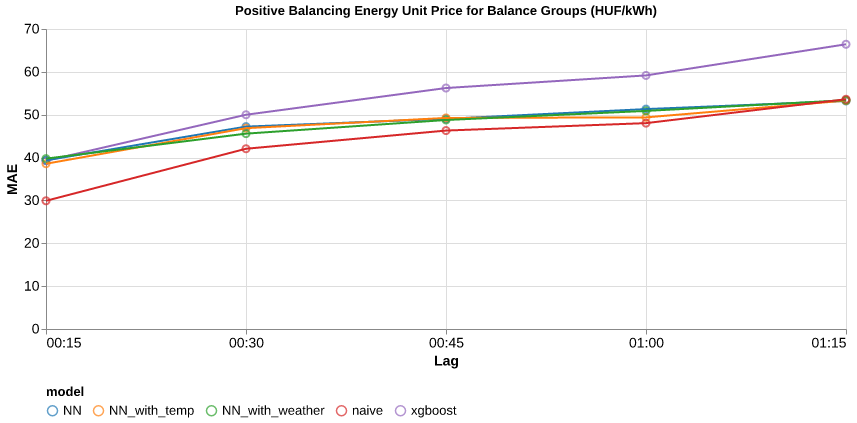
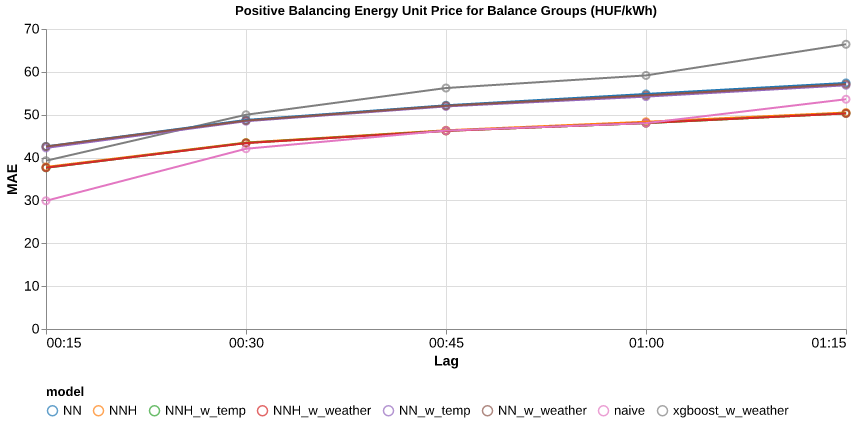
updated figures with errors

diff --git a/plot_results.py b/plot_results.py
@@ -1,6 +1,5 @@
 import altair as alt
 import polars as pl
-from semver import compare
 
 
 def lag_chart(df, width=800, height=400):
@@ -56,10 +55,13 @@ def compare_results(results):
 
 
 results = {
-    "xgboost": unpivot_errors(pl.read_parquet("model_results/xgboost_separate_results.parquet")),
-    "NN": unpivot_errors(pl.read_csv("model_results/evaluation_metrics_joined_df.csv")),
-    "NN_with_temp": unpivot_errors(pl.read_csv("model_results/evaluation_metrics_joined_df_with_temp.csv")),
-    "NN_with_weather": unpivot_errors(pl.read_csv("model_results/evaluation_metrics_joined_df_with_weather.csv")),
+    "xgboost_w_weather": unpivot_errors(pl.read_parquet("model_results/xgboost_separate_results.parquet")),
+    "NN": unpivot_errors(pl.read_csv("model_results/NN_100_seeds_joined_df.csv")),
+    "NN_w_temp": unpivot_errors(pl.read_csv("model_results/NN_100_seeds_joined_df_with_temp.csv")),
+    "NN_w_weather": unpivot_errors(pl.read_csv("model_results/NN_100_seeds_joined_df_with_weather.csv")),
+    "NNH": unpivot_errors(pl.read_csv("model_results/NN_100_seeds_Huber_joined_df.csv")),
+    "NNH_w_temp": unpivot_errors(pl.read_csv("model_results/NN_100_seeds_Huber_joined_df_with_temp.csv")),
+    "NNH_w_weather": unpivot_errors(pl.read_csv("model_results/NN_100_seeds_Huber_joined_df_with_weather.csv")),
     "naive": unpivot_errors(pl.read_csv("model_results/naive_model.csv")),
 }
 compare_results(results)

diff --git a/naive_model.py b/naive_model.py
@@ -2,7 +2,6 @@ import polars as pl
 from sklearn.metrics import mean_absolute_error, root_mean_squared_error, r2_score
 
 from datetime import datetime
-from plot_results import lag_chart
 from smape_error import smape
 
 TIMELAGS = range(1, 6)  # in steps (1 step is 15 minutes)
@@ -29,7 +28,7 @@ for lag in TIMELAGS:
                 "Target": f"{target}_t+{lag*15}min",
                 "MAE": mean_absolute_error(y_true, y_pred),
                 "RMSE": root_mean_squared_error(y_true, y_pred),
-                "R²": r2_score(y_true, y_pred),
+                "R2": r2_score(y_true, y_pred),
                 "SMAPE": smape(y_true.to_numpy(), y_pred.to_numpy()),
             }
         )
